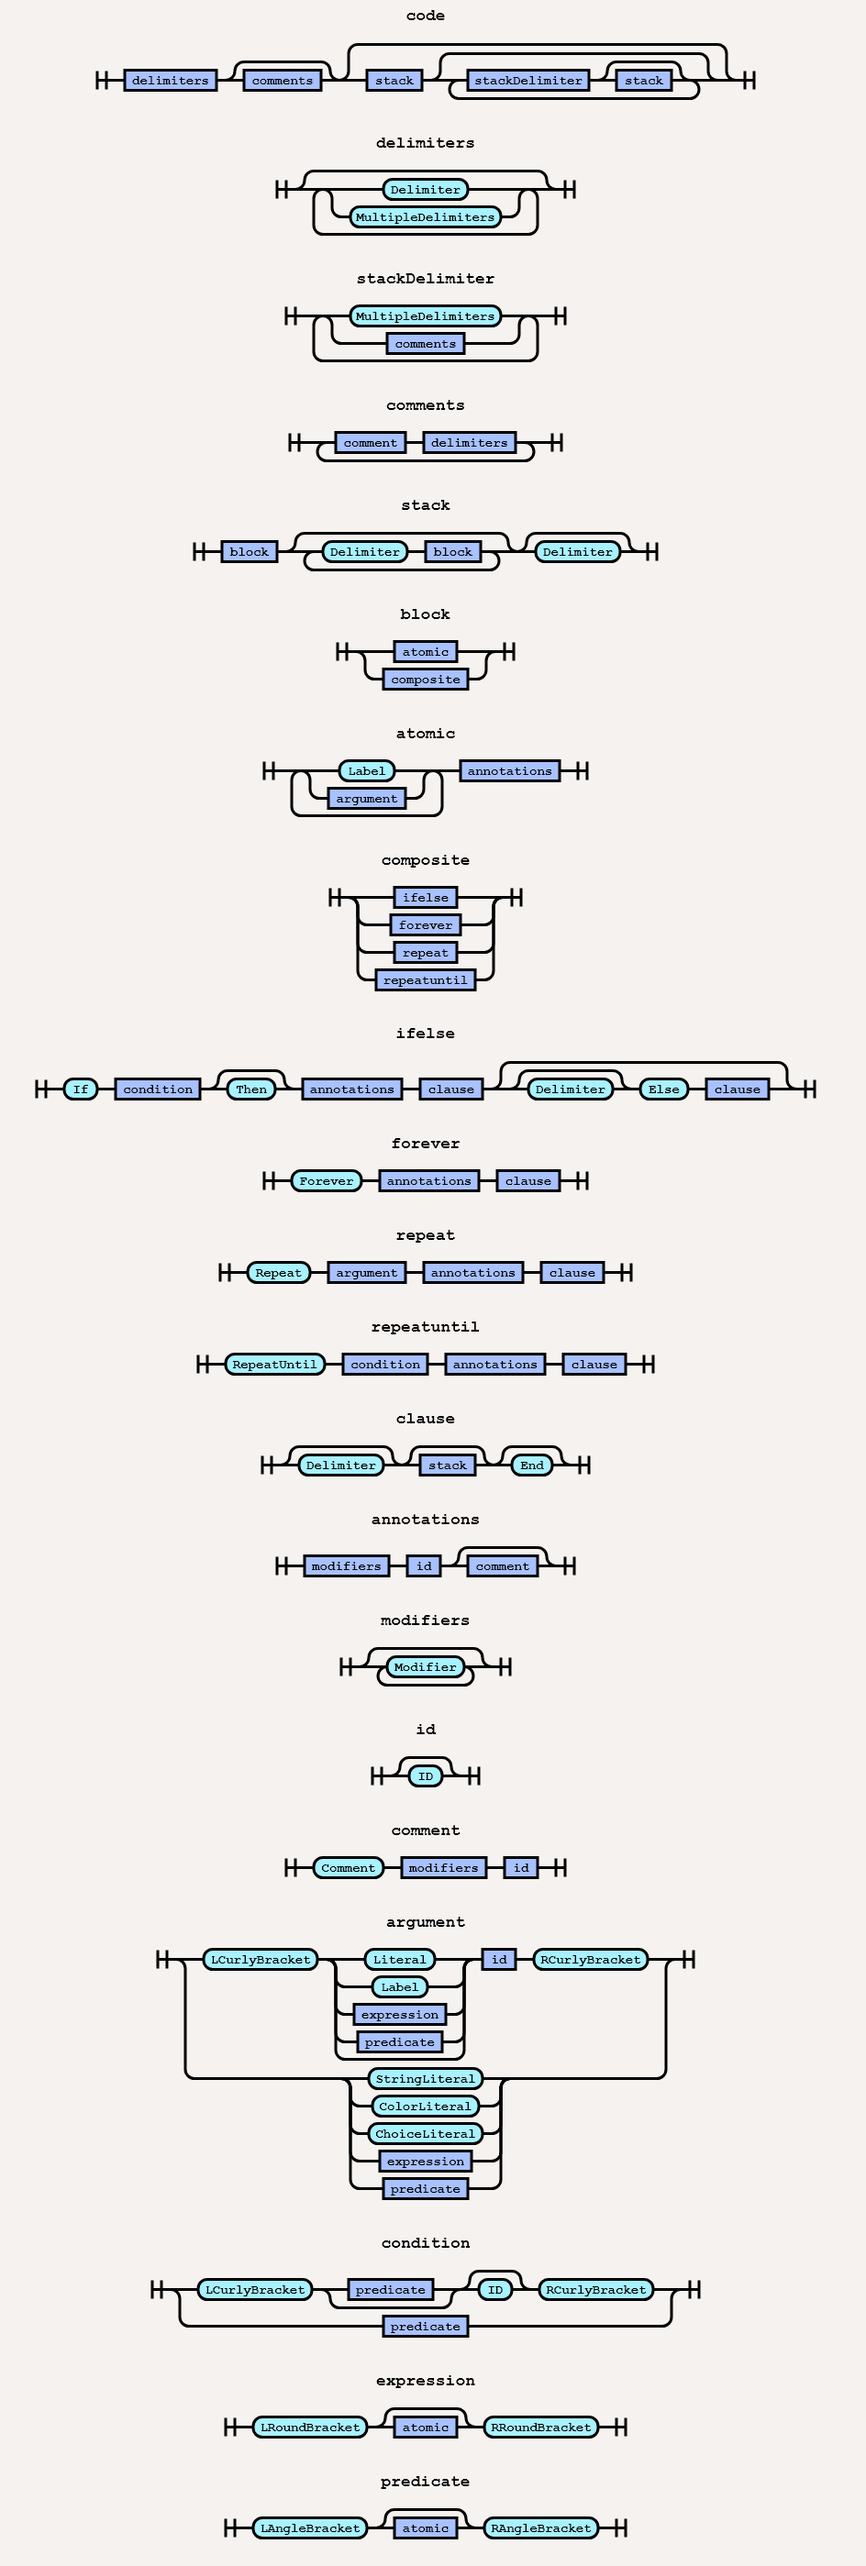
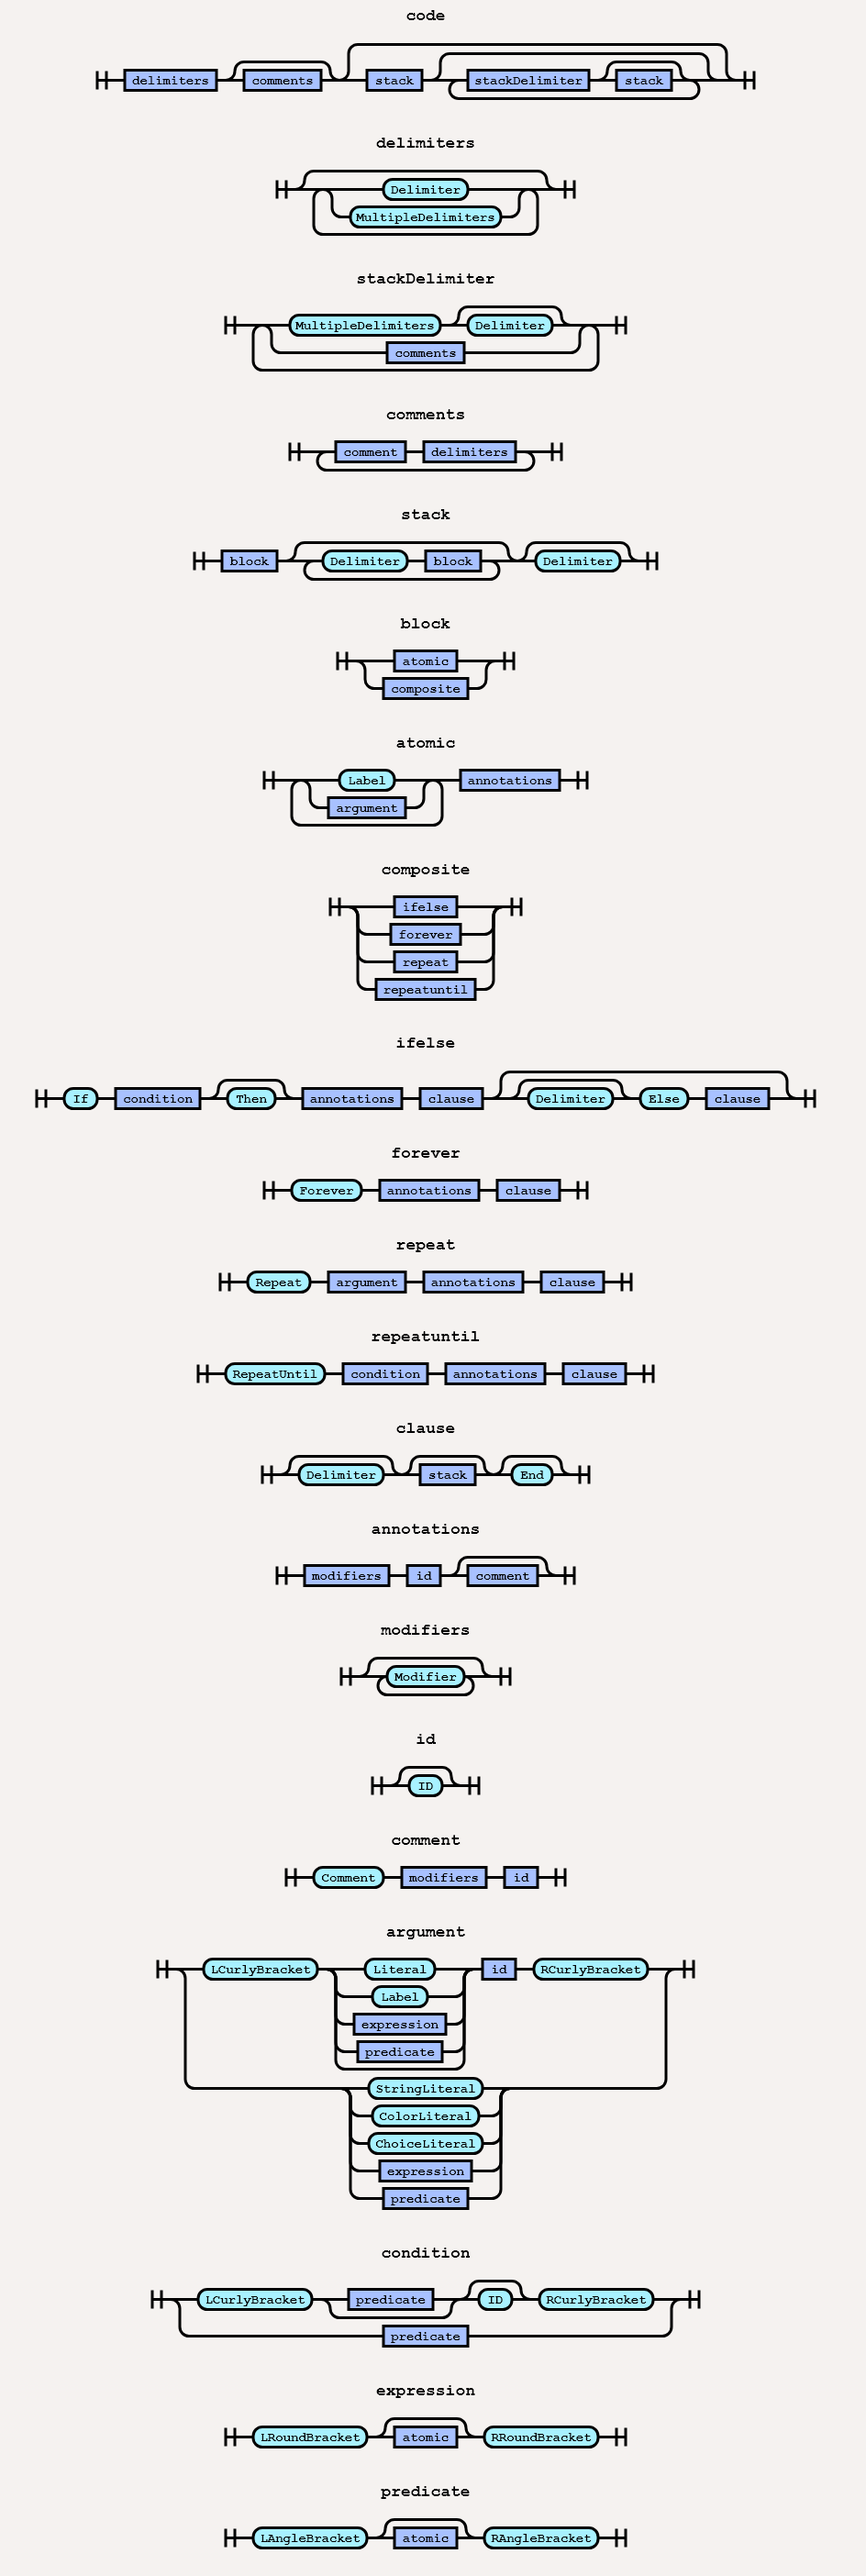
update stackdelimiter rule code & diagrams #79

diff --git a/documentation_parser/generated_diagrams.html b/documentation_parser/generated_diagrams.html
@@ -122,7 +122,7 @@
   {
     "type": "Rule",
     "name": "stackDelimiter",
-    "orgText": "() => {\r\n                $.AT_LEAST_ONE({\r\n                    DEF: () => {\r\n                        $.OR([{\r\n                            ALT: () => {\r\n                                $.CONSUME(MultipleDelimiters, {\r\n                                    LABEL: \"intermediateCodeDelimiters\"\r\n                                });\r\n                            }\r\n                        }, {\r\n                            ALT: () => {\r\n                                $.SUBRULE($.comments);\r\n                            }\r\n                        }]);\r\n                    }\r\n                });\r\n            }",
+    "orgText": "() => {\r\n                $.AT_LEAST_ONE({\r\n                    DEF: () => {\r\n                        $.OR([{\r\n                            ALT: () => {\r\n                                $.CONSUME(MultipleDelimiters, {\r\n                                    LABEL: \"intermediateCodeDelimiters\"\r\n                                });\r\n                                $.OPTION(() => {\r\n                                    $.CONSUME(Delimiter, {\r\n                                        LABEL: \"intermediateCodeDelimiter\"\r\n                                    });\r\n                                })\r\n                            }\r\n                        }, {\r\n                            ALT: () => {\r\n                                $.SUBRULE($.comments);\r\n                            }\r\n                        }]);\r\n                    }\r\n                });\r\n            }",
     "definition": [
       {
         "type": "RepetitionMandatory",
@@ -141,6 +141,19 @@
                     "label": "MultipleDelimiters",
                     "idx": 0,
                     "pattern": "((;[ \\t]*\\n|;[ \\t]*(?!\\n)|\\n)[ \\t]*){2,}"
+                  },
+                  {
+                    "type": "Option",
+                    "idx": 0,
+                    "definition": [
+                      {
+                        "type": "Terminal",
+                        "name": "Delimiter",
+                        "label": "Delimiter",
+                        "idx": 0,
+                        "pattern": ";[ \\t]*\\n?|\\n"
+                      }
+                    ]
                   }
                 ]
               },
@@ -652,7 +665,7 @@
   {
     "type": "Rule",
     "name": "argument",
-    "orgText": "() => {\r\n                $.OR([{\r\n                    ALT: () => {\r\n                        $.CONSUME(LCurlyBracket);\r\n                        $.OR2([{\r\n                            ALT: () => {\r\n                                $.CONSUME(Literal);\r\n                            }\r\n                        }, {\r\n                            ALT: () => {\r\n                                $.CONSUME(Label);\r\n                            }\r\n                        }, {\r\n                            ALT: () => {\r\n                                $.SUBRULE($.expression);\r\n                            }\r\n                        }, {\r\n                            ALT: () => {\r\n                                $.SUBRULE($.predicate);\r\n                            }\r\n                        }, {\r\n                            NAME: \"$empty\",\r\n                            ALT: chevrotain.EMPTY_ALT()\r\n                        }, ]);\r\n                        $.SUBRULE($.id);\r\n                        $.CONSUME(RCurlyBracket);\r\n                    }\r\n                }, {\r\n                    ALT: () => {\r\n                        $.OR3([{\r\n                            ALT: () => {\r\n                                $.CONSUME(StringLiteral, {\r\n                                    LABEL: \"Literal\"\r\n                                });\r\n                            }\r\n                        }, {\r\n                            ALT: () => {\r\n                                $.CONSUME(ColorLiteral, {\r\n                                    LABEL: \"Literal\"\r\n                                });\r\n                            }\r\n                        }, {\r\n                            ALT: () => {\r\n                                $.CONSUME(ChoiceLiteral, {\r\n                                    LABEL: \"Literal\"\r\n                                });\r\n                            }\r\n                        }, {\r\n                            ALT: () => {\r\n                                $.SUBRULE2($.expression);\r\n                            }\r\n                        }, {\r\n                            ALT: () => {\r\n                                $.SUBRULE2($.predicate);\r\n                            }\r\n                        }]);\r\n                    }\r\n                }])\r\n\r\n            }",
+    "orgText": "() => {\r\n                $.OR([{\r\n                    ALT: () => {\r\n                        $.CONSUME(LCurlyBracket);\r\n                        $.OR2([{\r\n                            ALT: () => {\r\n                                $.CONSUME(Literal);\r\n                            }\r\n                        }, {\r\n                            ALT: () => {\r\n                                $.CONSUME(Label);\r\n                            }\r\n                        }, {\r\n                            ALT: () => {\r\n                                $.SUBRULE($.expression);\r\n                            }\r\n                        }, {\r\n                            ALT: () => {\r\n                                $.SUBRULE($.predicate);\r\n                            }\r\n                        }, {\r\n                            NAME: \"$empty\",\r\n                            ALT: chevrotain.EMPTY_ALT()\r\n                        },]);\r\n                        $.SUBRULE($.id);\r\n                        $.CONSUME(RCurlyBracket);\r\n                    }\r\n                }, {\r\n                    ALT: () => {\r\n                        $.OR3([{\r\n                            ALT: () => {\r\n                                $.CONSUME(StringLiteral, {\r\n                                    LABEL: \"Literal\"\r\n                                });\r\n                            }\r\n                        }, {\r\n                            ALT: () => {\r\n                                $.CONSUME(ColorLiteral, {\r\n                                    LABEL: \"Literal\"\r\n                                });\r\n                            }\r\n                        }, {\r\n                            ALT: () => {\r\n                                $.CONSUME(ChoiceLiteral, {\r\n                                    LABEL: \"Literal\"\r\n                                });\r\n                            }\r\n                        }, {\r\n                            ALT: () => {\r\n                                $.SUBRULE2($.expression);\r\n                            }\r\n                        }, {\r\n                            ALT: () => {\r\n                                $.SUBRULE2($.predicate);\r\n                            }\r\n                        }]);\r\n                    }\r\n                }])\r\n\r\n            }",
     "definition": [
       {
         "type": "Alternation",
@@ -810,7 +823,7 @@
   {
     "type": "Rule",
     "name": "condition",
-    "orgText": "() => {\r\n                $.OR([{\r\n                    ALT: () => {\r\n                        $.CONSUME(LCurlyBracket);\r\n                        $.OR2([{\r\n                            ALT: () => {\r\n                                $.SUBRULE($.predicate);\r\n                            }\r\n                        }, {\r\n                            NAME: \"$empty\",\r\n                            ALT: chevrotain.EMPTY_ALT()\r\n                        }, ]);\r\n                        $.OPTION2(() => {\r\n                            $.CONSUME(ID);\r\n                        });\r\n                        $.CONSUME(RCurlyBracket);\r\n                    }\r\n                }, {\r\n                    ALT: () => {\r\n                        $.SUBRULE2($.predicate);\r\n                    }\r\n                }])\r\n            }",
+    "orgText": "() => {\r\n                $.OR([{\r\n                    ALT: () => {\r\n                        $.CONSUME(LCurlyBracket);\r\n                        $.OR2([{\r\n                            ALT: () => {\r\n                                $.SUBRULE($.predicate);\r\n                            }\r\n                        }, {\r\n                            NAME: \"$empty\",\r\n                            ALT: chevrotain.EMPTY_ALT()\r\n                        },]);\r\n                        $.OPTION2(() => {\r\n                            $.CONSUME(ID);\r\n                        });\r\n                        $.CONSUME(RCurlyBracket);\r\n                    }\r\n                }, {\r\n                    ALT: () => {\r\n                        $.SUBRULE2($.predicate);\r\n                    }\r\n                }])\r\n            }",
     "definition": [
       {
         "type": "Alternation",

diff --git a/documentation_parser/parser.js b/documentation_parser/parser.js
@@ -106,7 +106,7 @@ module.exports = {
             name: "NumberLiteral",
             //pattern: /-?(\d+)(\.\d+)?/, todo test of dit werkt met een *
             pattern: /-?(\d+)(\.\d+)?/,
-            categories: [Literal,Label],
+            categories: [Literal, Label],
             longer_alt: Label,
         });
 
@@ -214,7 +214,6 @@ module.exports = {
         });
 
 
-
         // marking WhiteSpace as 'SKIPPED' makes the lexer skip it.
         const WhiteSpace = createToken({
             name: "WhiteSpace",
@@ -303,6 +302,11 @@ module.exports = {
                                 $.CONSUME(MultipleDelimiters, {
                                     LABEL: "intermediateCodeDelimiters"
                                 });
+                                $.OPTION(() => {
+                                    $.CONSUME(Delimiter, {
+                                        LABEL: "intermediateCodeDelimiter"
+                                    });
+                                })
                             }
                         }, {
                             ALT: () => {
@@ -429,8 +433,6 @@ module.exports = {
             });
 
 
-
-
             $.RULE("clause", () => {
                 $.OPTION(() => {
                     $.CONSUME(Delimiter, {
@@ -495,7 +497,7 @@ module.exports = {
                         }, {
                             NAME: "$empty",
                             ALT: chevrotain.EMPTY_ALT()
-                        }, ]);
+                        },]);
                         $.SUBRULE($.id);
                         $.CONSUME(RCurlyBracket);
                     }
@@ -544,7 +546,7 @@ module.exports = {
                         }, {
                             NAME: "$empty",
                             ALT: chevrotain.EMPTY_ALT()
-                        }, ]);
+                        },]);
                         $.OPTION2(() => {
                             $.CONSUME(ID);
                         });
@@ -590,6 +592,7 @@ module.exports = {
 
         // ----------------- Interpreter -----------------
         const BaseCstVisitor = lnparser.getBaseCstVisitorConstructor();
+
         class LNVisitor extends BaseCstVisitor {
 
             constructor() {
@@ -691,7 +694,8 @@ module.exports = {
             }
 
         }
-    // for the playground to work the returned object must contain these fields
+
+        // for the playground to work the returned object must contain these fields
         return {
             lexer: LNLexer,
             parser: LNParser,

diff --git a/documentation_parser/parser_playground.js b/documentation_parser/parser_playground.js
@@ -103,7 +103,7 @@
         name: "NumberLiteral",
         //pattern: /-?(\d+)(\.\d+)?/, todo test of dit werkt met een *
         pattern: /-?(\d+)(\.\d+)?/,
-        categories: [Literal,Label],
+        categories: [Literal, Label],
         longer_alt: Label,
     });
 
@@ -211,7 +211,6 @@
     });
 
 
-
     // marking WhiteSpace as 'SKIPPED' makes the lexer skip it.
     const WhiteSpace = createToken({
         name: "WhiteSpace",
@@ -300,6 +299,11 @@
                             $.CONSUME(MultipleDelimiters, {
                                 LABEL: "intermediateCodeDelimiters"
                             });
+                            $.OPTION(() => {
+                                $.CONSUME(Delimiter, {
+                                    LABEL: "intermediateCodeDelimiter"
+                                });
+                            })
                         }
                     }, {
                         ALT: () => {
@@ -426,8 +430,6 @@
         });
 
 
-
-
         $.RULE("clause", () => {
             $.OPTION(() => {
                 $.CONSUME(Delimiter, {
@@ -492,7 +494,7 @@
                     }, {
                         NAME: "$empty",
                         ALT: chevrotain.EMPTY_ALT()
-                    }, ]);
+                    },]);
                     $.SUBRULE($.id);
                     $.CONSUME(RCurlyBracket);
                 }
@@ -541,7 +543,7 @@
                     }, {
                         NAME: "$empty",
                         ALT: chevrotain.EMPTY_ALT()
-                    }, ]);
+                    },]);
                     $.OPTION2(() => {
                         $.CONSUME(ID);
                     });
@@ -587,6 +589,7 @@
 
     // ----------------- Interpreter -----------------
     const BaseCstVisitor = lnparser.getBaseCstVisitorConstructor();
+
     class LNVisitor extends BaseCstVisitor {
 
         constructor() {

diff --git a/parser/LNParser.js b/parser/LNParser.js
@@ -107,6 +107,11 @@ function LNParser(input) {
                         $.CONSUME(MultipleDelimiters, {
                             LABEL: "intermediateCodeDelimiters"
                         });
+                        $.OPTION(() => {
+                            $.CONSUME(Delimiter, {
+                                LABEL: "intermediateCodeDelimiter"
+                            });
+                        })
                     }
                 }, {
                     ALT: () => {
